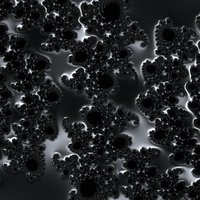
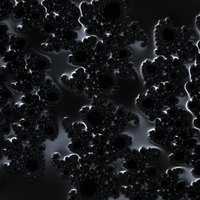
Training tiles: Today/This week donuts, Moved today; metal fractals
- Tiles 1-3 replaced: Today (donut of today's planned sets done),
  This week (donut of this week's planned workouts fully done), Moved
  today (weight lifted / reps / time held today). Fitness tile kept.
- Fractal themes recoloured as metals: gold seahorse, rose gold swirl,
  gunmetal spiral, champagne lightning.

Claude-Session: https://claude.ai/code/session_017mYzszs9feN14jJPMm9ed1

diff --git a/index.html b/index.html
@@ -1191,6 +1191,7 @@ input,textarea,select,[contenteditable]{-webkit-user-select:text;user-select:tex
 .lines-sw{display:inline-flex}
 
 /* training */
+.tile.tdn{gap:4px;padding:14px}.tdonut{width:86px;height:86px}
 .trwk .tr-days{gap:0;align-items:stretch;border:1px solid rgba(var(--lr),.28);border-radius:12px;overflow:hidden}
 .trwk .tr-day{position:relative;align-content:start;min-height:112px;padding:10px 6px 8px;border-radius:0;background:rgba(var(--tX),.4);border:0;border-left:1px solid rgba(var(--lr),.22)}.trwk .tr-day:first-child{border-left:0}
 .trwk .tr-day.td{box-shadow:inset 0 0 0 2px rgba(var(--tL),1);z-index:1}
@@ -2227,6 +2228,15 @@ const dsDone=(d,pl,e,ds)=>(d.workouts||[]).find(w=>w.d===ds&&w.plan===pl.id&&trK
 const tlSets=e=>Math.max(1,Math.min(12,parseInt(e.sets)||1));
 const tlFull=(d,pl,e)=>{const w=tckDone(d,pl,e);return !!w&&(+w.sets||0)>=tlSets(e)};
 const CKSVG=`<svg viewBox="0 0 24 24" width="16" height="16" fill="none" stroke="currentColor" stroke-width="3" stroke-linecap="round" stroke-linejoin="round" aria-hidden="true"><path d="M5 12.5l4.5 4.5L19 7.5"/></svg>`;
+/* top tiles: today's sets done (donut), this week's planned workouts done (donut), what you moved today */
+function donut(pc,col,txt){const R=30,C=2*Math.PI*R,f=Math.max(0,Math.min(1,pc));return `<svg class="tdonut" viewBox="0 0 80 80" aria-hidden="true"><circle cx="40" cy="40" r="${R}" fill="none" stroke="rgba(150,180,240,.16)" stroke-width="8"/><circle cx="40" cy="40" r="${R}" fill="none" stroke="${col}" stroke-width="8" stroke-linecap="round" stroke-dasharray="${(C*f).toFixed(1)} ${C.toFixed(1)}" transform="rotate(-90 40 40)" style="filter:drop-shadow(0 0 4px ${col})"/><text x="40" y="45" text-anchor="middle" font-size="17" font-weight="700" fill="#eef3ff" font-family="var(--mono)">${txt}</text></svg>`}
+function trTiles(d){const T=today(),u=d.goals.unit,PL=tlPlans(d);let sp=0,sd=0;PL.forEach(p=>p.ex.forEach(e=>{const S=tlSets(e);sp+=S;const w=dsDone(d,p,e,T);sd+=w?Math.min(S,+w.sets||0):0}));
+  const wk0=wkOf(T);let wp=0,wd=0;for(let i=0;i<7;i++){const x=new Date(wk0+"T12:00");x.setDate(x.getDate()+i);const ds=ymd(x);(d.plans||[]).filter(p=>p.ex&&p.ex.length&&onDay(p,i)).forEach(p=>{wp++;if(p.ex.every(e=>{const w=dsDone(d,p,e,ds);return w&&(+w.sets||0)>=tlSets(e)}))wd++})}
+  const WO=(d.workouts||[]).filter(w=>w.d===T&&!w.hk);let vol=0,secs=0,reps=0;WO.forEach(w=>{const k=(+w.sets||0)*(+w.reps||0);if(w.unit==="s")secs+=k;else{reps+=k;vol+=k*(+w.kg||0)}});
+  const fmt=v=>v>=1e4?(v/1e3).toFixed(1)+"k":n0(v);const mt=s=>s>=60?Math.floor(s/60)+"m "+(s%60?s%60+"s":""):s+"s";
+  return `<div class="panel tile tdn" style="--c:var(--lime)"><small>Today</small>${donut(sp?sd/sp:0,"#3ddc84",sp?Math.round(sd/sp*100)+"%":"–")}<em>${sp?sd+" of "+sp+" sets":"nothing planned"}</em></div>
+    <div class="panel tile tdn" style="--c:var(--cyan)"><small>This week</small>${donut(wp?wd/wp:0,"rgba(var(--tL),1)",wp?wd+"/"+wp:"–")}<em>${wp?"planned workouts done":"nothing planned"}</em></div>
+    <div class="panel tile" style="--c:var(--amber)">${ic("bolt")}<small>Moved today</small><b>${vol?fmt(vol):reps?n0(reps):secs?mt(secs):"0"}</b><em>${vol?u+" lifted":reps?"reps":secs?"held":"nothing logged yet"}${vol&&secs?" · "+mt(secs)+" held":""}</em></div>`}
 function trLogPanel(d,T){const u=d.goals.unit,PL=tlPlans(d),groups=[];
   PL.forEach(p=>{const c=pCats(p)[0]||"";let g=groups.find(x=>x.c===c);if(!g)groups.push(g={c,ps:[]});g.ps.push(p)});groups.sort((a,b)=>(a.c?0:1)-(b.c?0:1));
   let all=0,done=0;
@@ -2742,9 +2752,7 @@ document.addEventListener("keydown",e=>{if(e.key==="Escape"&&gymSheet){gymSheet=
 function vTrain(){
   const d=D(),u=d.goals.unit,T=trStats(d),F=fitLevel(d),dv=T.lastVol?Math.round((T.vol-T.lastVol)/T.lastVol*100):null,lastW=T.WO.length?T.WO[T.WO.length-1]:null;
   return banner()+`<div class="grid tiles">
-    <div class="panel tile" style="--c:var(--lime)">${ic("dumb")}<small>This week</small><b>${T.thisDays.size}/${T.G}</b><em>training days</em></div>
-    <div class="panel tile" style="--c:var(--amber)">${ic("fire")}<small>Streak</small><b>${T.streak}</b><em>${T.streak===1?"week":"weeks"} on goal</em></div>
-    <div class="panel tile" style="--c:var(--cyan)">${ic("bolt")}<small>Lifted this week</small><b>${T.vol>=1e4?(T.vol/1e3).toFixed(1)+"k":n0(T.vol)}</b><em>${T.lastVol?u+" · last week "+(T.lastVol>=1e4?(T.lastVol/1e3).toFixed(1)+"k":n0(T.lastVol)):u}</em></div>
+${trTiles(d)}
     <div class="panel tile" style="--c:var(--violet)">${ic("star")}<small>Fitness</small><b>${F.name}</b><em>${lastW?"last workout "+(lastW.d===today()?"today":fmtDate(lastW.d)):"no workouts yet"}</em></div>
   </div>
   <div class="passtop figtop bodytop trtop" style="margin-top:18px">${figurePanel()}
@@ -3942,10 +3950,10 @@ const WALLS=[
   {id:"liveportal",name:"Live portal",live:"portal",src:"wp/m/portal.jpg",pos:"50% 50%",shade:.1},
   {id:"livedub",name:"Live dub",live:"dub",src:"wp/m/deepdub.jpg",pos:"50% 50%",shade:0},
   {id:"livechrome",name:"Live silver",live:"chrome",src:"wp/m/pearl.jpg",pos:"50% 50%",shade:0},
-  {id:"fracseahorse",name:"Chrome seahorse",live:"fseahorse",src:"wp/m/fracseahorse.jpg",pos:"50% 50%",shade:0},
-  {id:"fracswirl",name:"Chrome swirl",live:"fswirl",src:"wp/m/fracswirl.jpg",pos:"50% 50%",shade:0},
-  {id:"fracspiral",name:"Chrome spiral",live:"fspiral",src:"wp/m/fracspiral.jpg",pos:"50% 50%",shade:0},
-  {id:"fracbolt",name:"Chrome lightning",live:"fbolt",src:"wp/m/fracbolt.jpg",pos:"50% 50%",shade:0}];
+  {id:"fracseahorse",name:"Gold seahorse",live:"fseahorse",src:"wp/m/fracseahorse.jpg",pos:"50% 50%",shade:0},
+  {id:"fracswirl",name:"Rose gold swirl",live:"fswirl",src:"wp/m/fracswirl.jpg",pos:"50% 50%",shade:0},
+  {id:"fracspiral",name:"Gunmetal spiral",live:"fspiral",src:"wp/m/fracspiral.jpg",pos:"50% 50%",shade:0},
+  {id:"fracbolt",name:"Champagne lightning",live:"fbolt",src:"wp/m/fracbolt.jpg",pos:"50% 50%",shade:0}];
 const WGROUPS=[["Live · animated",["livefire","liveportal","livedub","livechrome"]],["Fractal zoom",["fracseahorse","fracswirl","fracspiral","fracbolt"]],["Landscape",["alpine","serenity","snow","moonlit","aurora","sunset","ocean","forest","dunes","sakura"]],["Kaleidoscope",["hyperspace","portal","royalgold","gilded","inferno","deepdub","pearl","chrome"]],["Fire",["fire","serpent"]],["Dream & space",["liminal","nebula","midnight"]]];
 const wallGroups=()=>{const A=allWalls(),out=WGROUPS.map(([n,ids])=>[n,ids.map(i=>A.find(w=>w.id===i)).filter(Boolean)]);const seen=new Set(WGROUPS.flatMap(g=>g[1]));const rest=A.filter(w=>!w.custom&&!seen.has(w.id));if(rest.length)out[out.length-1][1].push(...rest);const mine=A.filter(w=>w.custom);if(mine.length)out.push(["Yours",mine]);return out.filter(g=>g[1].length)};
 const stripWalls=f=>wallGroups().map(([n,ws])=>`<span class="tgroup">${esc(n)}</span>`+ws.map(f).join("")).join("");
@@ -3967,8 +3975,8 @@ function bestSrc(w,spin){if(w.custom||!HDW.has(w.id))return w.src;const need=Mat
 const spinner=on=>{const e=$("#bgspin");if(e)e.classList.toggle("show",on)};
 /* live kaleidoscope: one shader, three palettes */
 /* fractal zoom: an endless dive into the Mandelbrot set, glowing along its edges */
-const FRAC_PAL={fseahorse:{sh:1,ctr:[-0.743643887037151,0.131825904205330],s0:1.6,s1:2e-4},fswirl:{sh:2,ctr:[0,0],jc:[-0.8,0.156],s0:1.8,s1:.003},
-  fspiral:{sh:2,ctr:[0,0],jc:[-0.7269,0.1889],s0:1.6,s1:.004},fbolt:{sh:2,ctr:[0,0],jc:[0,1],s0:1.6,s1:.003}};
+const FRAC_PAL={fseahorse:{tint:[1,.78,.36],sh:1,ctr:[-0.743643887037151,0.131825904205330],s0:1.6,s1:2e-4},fswirl:{tint:[.96,.62,.55],sh:2,ctr:[0,0],jc:[-0.8,0.156],s0:1.8,s1:.003},
+  fspiral:{tint:[.46,.5,.56],sh:2,ctr:[0,0],jc:[-0.7269,0.1889],s0:1.6,s1:.004},fbolt:{tint:[.93,.84,.64],sh:2,ctr:[0,0],jc:[0,1],s0:1.6,s1:.003}};
 const FRAC_FS=`precision highp float;uniform vec2 R;uniform float T;uniform vec2 Ctr,Jc;uniform float P,S0,S1,RO,SH;uniform vec3 TINT;float f(vec2 c){vec2 z=SH>1.5&&SH<2.5?c:vec2(0.);vec2 k=SH>1.5&&SH<2.5?Jc:c;float n=0.,m2=0.;for(int i=0;i<170;i++){if(SH>2.5&&SH<3.5)z=abs(z);if(SH>3.5)z.y=-z.y;z=vec2(z.x*z.x-z.y*z.y,2.*z.x*z.y)+k;m2=dot(z,z);if(m2>1e4)break;n+=1.;}return n>=169.?-1.:n-log2(log2(m2));}void main(){vec2 uv=(gl_FragCoord.xy-.5*R)/min(R.x,R.y);float ph=fract(T/P);float sc=S0*exp(-ph*log(S0/S1));float an=T*RO;mat2 rot=mat2(cos(an),-sin(an),sin(an),cos(an));uv=rot*uv;vec2 c=Ctr+uv*sc;float px=sc/min(R.x,R.y)*1.5;float h=f(c);vec3 col=vec3(.01);if(h>=0.){float hx=f(c+vec2(px,0.)),hy=f(c+vec2(0.,px));if(hx<0.)hx=h;if(hy<0.)hy=h;vec3 nrm=normalize(vec3((h-hx)*1.6,(h-hy)*1.6,1.));vec3 L=normalize(vec3(-.5,.6,.65));vec3 V=vec3(0.,0.,1.);vec3 Hh=normalize(L+V);float dif=max(dot(nrm,L),0.);float spe=pow(max(dot(nrm,Hh),0.),60.);vec3 rf=reflect(-V,nrm);float env=.5+.5*cos(rf.y*6.+rf.x*2.+h*.06);float band=.55+.45*cos(h*.18+T*.05);vec3 base=TINT*(.25+.75*env)*band;col=base*(.25+.9*dif)+vec3(1.)*spe*1.1+TINT*.04;}float fade=smoothstep(0.,.04,ph)*smoothstep(1.,.96,ph);float vig=1.-.45*dot(uv,uv);gl_FragColor=vec4(clamp(col*vig*fade,0.,1.),1.);}`;
 const LIVE_PAL={
   inferno:{ramp:[[.6,.03,.02],[1,.36,.05],[1,.8,.32]],gain:1.15,n:8,cx:-.55,cy:-.6},
@@ -3992,7 +4000,7 @@ function liveStart(cv,pal){const gl=cv.getContext("webgl",{antialias:false,alpha
   const uR=U("R"),uT=U("T");
   const fp=gl.createProgram();gl.attachShader(fp,sh(gl.VERTEX_SHADER,"attribute vec2 p;void main(){gl_Position=vec4(p,0.,1.);}"));gl.attachShader(fp,sh(gl.FRAGMENT_SHADER,FRAC_FS));gl.bindAttribLocation(fp,loc,"p");gl.linkProgram(fp);const fOK=gl.getProgramParameter(fp,gl.LINK_STATUS);
   const FU=n=>gl.getUniformLocation(fp,n);let cur=pr,uR2=uR,uT2=uT;
-  const set=k=>{if(FRAC_PAL[k]&&fOK){const q=FRAC_PAL[k];gl.useProgram(fp);cur=fp;gl.uniform2fv(FU("Ctr"),q.ctr);gl.uniform2fv(FU("Jc"),q.jc||[0,0]);gl.uniform1f(FU("SH"),q.sh);gl.uniform3fv(FU("TINT"),[.82,.85,.9]);gl.uniform1f(FU("P"),75);gl.uniform1f(FU("S0"),q.s0);gl.uniform1f(FU("S1"),q.s1);gl.uniform1f(FU("RO"),.008);uR2=FU("R");uT2=FU("T")}else{gl.useProgram(pr);cur=pr;uR2=uR;uT2=uT;if(LIVE_PAL[k])setPal(k)}};
+  const set=k=>{if(FRAC_PAL[k]&&fOK){const q=FRAC_PAL[k];gl.useProgram(fp);cur=fp;gl.uniform2fv(FU("Ctr"),q.ctr);gl.uniform2fv(FU("Jc"),q.jc||[0,0]);gl.uniform1f(FU("SH"),q.sh);gl.uniform3fv(FU("TINT"),q.tint);gl.uniform1f(FU("P"),75);gl.uniform1f(FU("S0"),q.s0);gl.uniform1f(FU("S1"),q.s1);gl.uniform1f(FU("RO"),.008);uR2=FU("R");uT2=FU("T")}else{gl.useProgram(pr);cur=pr;uR2=uR;uT2=uT;if(LIVE_PAL[k])setPal(k)}};
   return {setPal:set,draw(t){gl.viewport(0,0,cv.width,cv.height);gl.uniform2f(uR2,cv.width,cv.height);gl.uniform1f(uT2,t);gl.drawArrays(gl.TRIANGLES,0,3)},gl}}
 
 let liveEng=null,liveRAF=0,liveKey=null,liveFail=false,liveLast=0;const liveT0=performance.now()-Math.random()*6e5;
@@ -4394,7 +4402,7 @@ const num=id=>{const v=$(id).value;return v===""?null:+v};
 document.addEventListener("keydown",e=>{const r=e.target.closest&&e.target.closest("[data-selp]");if(r&&e.target===r&&(e.key==="Enter"||e.key===" ")){e.preventDefault();r.click()}});
 let wSavedAt=0,wFlash=null;
 document.addEventListener("click",e=>{const w=e.target.closest&&e.target.closest("[data-waslot]");if(!w)return;const [pid,sid,ds]=w.dataset.waslot.split(":");if(demoOn()&&!data.passions.some(p=>p.id===pid))return;selP=pid;pTab="schedule";selSlot={id:sid,ds};editSlot=null;go("pass");setTimeout(()=>{const el=$("#slotDetail");el&&el.scrollIntoView({behavior:"smooth",block:"center"})},350)});
-const APPV="222",APPT="2026-11-18T20:16:00-05:00";   /* APPT: when this update was made */
+const APPV="223",APPT="2026-11-18T20:26:00-05:00";   /* APPT: when this update was made */
 const updStamp=()=>{try{return new Date(APPT).toLocaleString(undefined,{month:"short",day:"numeric",hour:"numeric",minute:"2-digit"})}catch(e){return APPT.slice(0,16).replace("T"," ")}};if(/[?&]u=\d/.test(location.search))try{history.replaceState(null,"",location.pathname+location.hash)}catch(e){}
 /* pick up a new version without being asked: check when the app opens, when you come back to it, and every few minutes */
 (function(){if(location.protocol!=="https:"||!/github\.io$/.test(location.hostname))return;let busy=false;

diff --git a/sw.js b/sw.js
@@ -1,5 +1,5 @@
 // Offline support: the app opens without a connection; data syncs when back online.
-const VERSION = "aot-v222";
+const VERSION = "aot-v223";
 const LIB = "https://cdn.jsdelivr.net/npm/@supabase/supabase-js@2.45.4";
 const SHELL = ["./", "./index.html", "./config.js", "./ramsau.jpg", "./manifest.webmanifest",
   "./icon-192.png", "./icon-512.png", "./apple-touch-icon.png", LIB];
